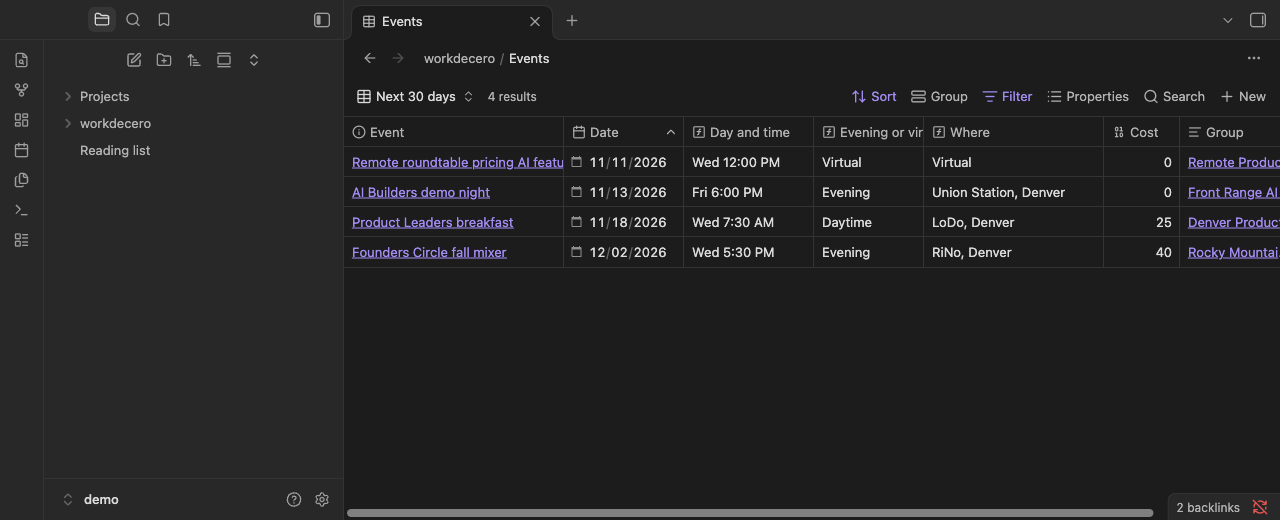
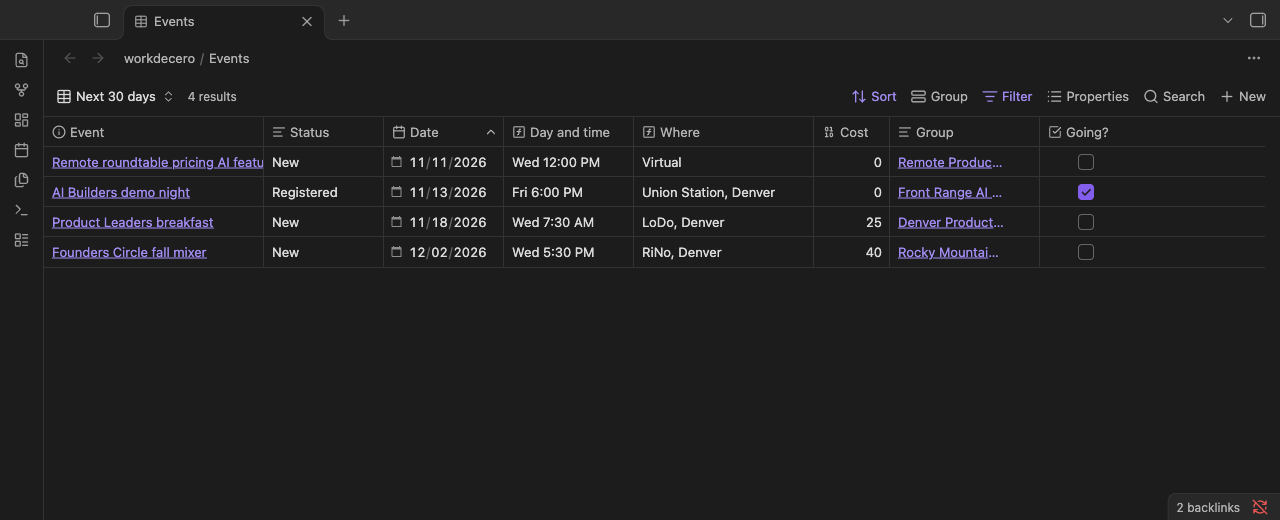
Events views: Status is on the table
Status is what the person changes after an event, so it is now a column in
the Next 30 days and Going views. The evening-or-virtual column made way
for it in Next 30 days: Where already says when an event is online and Day
and time shows the hour. Both views were rendered in an isolated Obsidian
with no errors, and the Next 30 days screenshot is regenerated. The demo
vault's events carry statuses. Version 0.0.26.

diff --git a/trackers/bases.py b/trackers/bases.py
@@ -266,12 +266,14 @@ def events_base(folder):
     views = [
         _view("Next 30 days",
               {"and": ["%s >= today()" % date, "%s <= today() + '30d'" % date]},
-              _columns(event, "name", "date", "formula.day_time", "formula.kind", "formula.place", "cost", "group",
+              # Status is here to be changed after an event. Evening-or-virtual made way for it: Where says
+              # when an event is online, and Day and time shows the hour.
+              _columns(event, "name", "status", "date", "formula.day_time", "formula.place", "cost", "group",
                        "going"),
               _sort(event, ("date", "ASC"))),
         _view("Going",
               {"and": ["%s == true" % _key("going"), "%s >= today()" % date]},
-              _columns(event, "name", "date", "formula.day_time", "formula.place", "prep"),
+              _columns(event, "name", "status", "date", "formula.day_time", "formula.place", "prep"),
               _sort(event, ("date", "ASC"))),
         _view("Met, follow up",
               {"and": ["%s == true" % _key("attended"), "%s >= today() - '14d'" % date, "%s <= today()" % date,

diff --git a/dev/make_demo_vault.py b/dev/make_demo_vault.py
@@ -183,10 +183,10 @@ def build(target, folder="workdecero", today=None, backup_dir=None):
                                                "virtual": virtual, "where": where, "cost": cost,
                                                "group": link("group", group), "fit": fit, "first_seen": day(-8),
                                                "link": "https://events.example.com/" + note_id.lower()})
-    store.upsert("event", "E-1", "", {"going": True}, force=["going"])
-    store.upsert("event", "E-5", "", {"going": True, "attended": True,
+    store.upsert("event", "E-1", "", {"going": True, "status": "Registered"}, force=["going", "status"])
+    store.upsert("event", "E-5", "", {"going": True, "attended": True, "status": "Went",
                                       "people_met": [link("person", "Priya Raman")]},
-                 force=["going", "attended", "people_met"])
+                 force=["going", "attended", "people_met", "status"])
 
     store.upsert("digest", "D-1", "%s Job sweep" % day(-1),
                  {"date": day(-1), "track": "Jobs", "new": 3, "closed": 1,
